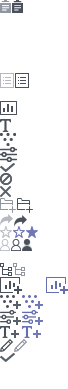
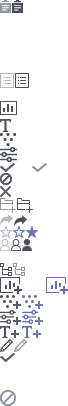
#2961 improve engine monitoring query detail and datasource list

diff --git a/discovery-frontend/src/app/engine-monitoring/datasource/datasource.component.html b/discovery-frontend/src/app/engine-monitoring/datasource/datasource.component.html
@@ -48,51 +48,78 @@
       <col width="150px">
       <col width="150px">
       <col width="150px">
+      <col width="100px">
     </colgroup>
     <thead>
-    <tr>
-      <th>
-        Datasource name
-      </th>
-      <th>
-        Status
-      </th>
-      <th>
-        Time
-      </th>
-      <th>
-        Size
-      </th>
-      <th>
-        Available Segment
-      </th>
-      <th>
-        Num of Rows
-      </th>
-    </tr>
+      <tr>
+        <th>
+          Datasource name
+        </th>
+        <th>
+          Status
+        </th>
+        <th>
+          Time
+        </th>
+        <th>
+          Size
+        </th>
+        <th>
+          Available Segment
+        </th>
+        <th>
+          Num of Rows
+        </th>
+        <th>
+        </th>
+      </tr>
     </thead>
     <tbody>
-    <tr *ngFor="let datasource of datasourceList" [class.ddp-disabled]="datasource.disabled" (click)="onClickDatasource(datasource)">
-      <td>
-        {{datasource.datasource}}
-      </td>
-      <td>
-        <span class="ddp-txt-status type-{{getDatasourceStatus(datasource)}}">{{getDatasourceStatusLabel(datasource)}}</span>
-      </td>
-      <td>
-        {{datasource.disabled ? '' : (datasource.segments.minTime | date : 'yyyy-MM-ddTHH' : 'UTC') + ' ~ ' + (datasource.segments.maxTime | date : 'yyyy-MM-ddTHH' : 'UTC')}}
-      </td>
-      <td>
-        {{datasource.disabled ? '' : getDatasourceSize(datasource)}}
-      </td>
-      <td>
-        {{datasource.disabled ? '' : datasource.num_available_segments | numberCommas}}
-      </td>
-      <td>
-        {{datasource.disabled ? '' : datasource.num_rows | numberCommas}}
-      </td>
-    </tr>
+      <tr *ngFor="let datasource of datasourceList" (click)="onClickDatasource(datasource)">
+        <td>
+          {{datasource.datasource}}
+        </td>
+        <td>
+          <span class="ddp-txt-status type-{{getDatasourceStatus(datasource)}}">{{getDatasourceStatusLabel(datasource)}}</span>
+        </td>
+        <td>
+          {{datasource.disabled ? '' : (datasource.segments.minTime | date : 'yyyy-MM-ddTHH' : 'UTC') + ' ~ ' + (datasource.segments.maxTime | date : 'yyyy-MM-ddTHH' : 'UTC')}}
+        </td>
+        <td>
+          {{datasource.disabled ? '' : getDatasourceSize(datasource)}}
+        </td>
+        <td>
+          {{datasource.disabled ? '' : datasource.num_available_segments | numberCommas}}
+        </td>
+        <td>
+          {{datasource.disabled ? '' : datasource.num_rows | numberCommas}}
+        </td>
+        <td>
+          <a href="javascript:" class="ddp-box-btn-able" (click)="$event.stopPropagation(); onClickConfirmDatasource(datasource, 'disable');" *ngIf="!datasource.disabled">
+            <em class="ddp-icon-disable"></em>
 
+            <!-- tooltip -->
+            <div class="ddp-ui-tooltip-info ddp-top" >
+              <em class="ddp-icon-view-top"></em>
+              Disable
+            </div>
+            <!-- //tooltip -->
+          </a>
+          <a href="javascript:" class="ddp-box-btn-able" (click)="$event.stopPropagation(); onClickConfirmDatasource(datasource, 'enable');" *ngIf="datasource.disabled">
+            <em class="ddp-icon-enable"></em>
+            <!-- tooltip -->
+            <div class="ddp-ui-tooltip-info ddp-top" >
+              <em class="ddp-icon-view-top"></em>
+              Enable
+            </div>
+            <!-- //tooltip -->
+          </a>
+
+          <div class="ddp-btn-control">
+            <em class="ddp-icon-control-cut" (click)="$event.stopPropagation(); onClickConfirmDatasource(datasource, 'delete');"></em>
+          </div>
+        </td>
+      </tr>
     </tbody>
 
   </table>
@@ -101,3 +128,5 @@
   <!-- // Pagination -->
   </ng-template>
 </div>
+
+<app-delete-modal (deleteConfirm)="confirmDatasource($event)"></app-delete-modal>

diff --git a/discovery-frontend/src/app/engine-monitoring/datasource/datasource.component.ts b/discovery-frontend/src/app/engine-monitoring/datasource/datasource.component.ts
@@ -34,6 +34,10 @@ import {CommonUtil} from "../../common/util/common.util";
 import {filter} from "rxjs/operators";
 import {StateService} from "../service/state.service";
 import {Engine} from "../../domain/engine-monitoring/engine";
+import {Alert} from "../../common/util/alert.util";
+import {Datasource} from "../../domain/datasource/datasource";
+import {Modal} from "../../common/domain/modal";
+import {DeleteModalComponent} from "../../common/component/modal/delete/delete.component";
 
 @Component({
   selector: '[datasource]',
@@ -52,6 +56,9 @@ export class DatasourceComponent extends AbstractComponent implements OnInit, On
               private engineService: EngineService) {
     super(elementRef, injector);
   }
+
+  @ViewChild(DeleteModalComponent)
+  private deleteModalComponent: DeleteModalComponent;
 
   @ViewChild(CriterionComponent)
   private readonly criterionComponent: CriterionComponent;
@@ -177,6 +184,38 @@ export class DatasourceComponent extends AbstractComponent implements OnInit, On
     return this.injector.get(EngineService).getCriterionInDatasource(criterionKey);
   }
 
+  public onClickConfirmDatasource(datasource, type): void {
+    const modal = new Modal();
+    if (type === 'enable') {
+      modal.name = this.translateService.instant('msg.engine.monitoring.confirm.ds.enable.title');
+      modal.description = this.translateService.instant('msg.engine.monitoring.confirm.ds.enable.description');
+      modal.btnName = this.translateService.instant('msg.engine.monitoring.btn.ds.enable');
+    } else if (type === 'disable') {
+      modal.name = this.translateService.instant('msg.engine.monitoring.btn.ds.disable');
+      modal.description = this.translateService.instant('msg.engine.monitoring.confirm.ds.list.disable.description');
+      modal.btnName = this.translateService.instant('msg.engine.monitoring.btn.ds.list.disable');
+    } else if (type === 'delete') {
+      modal.name = this.translateService.instant('msg.storage.btn.dsource.del');
+      modal.description = this.translateService.instant('msg.engine.monitoring.confirm.ds.del.description');
+      modal.btnName = this.translateService.instant('msg.engine.monitoring.btn.ds.del');
+    }
+    modal.data = {
+      datasource : datasource.datasource,
+      type: type
+    };
+    this.deleteModalComponent.init(modal);
+  }
+
+  public confirmDatasource(modal: Modal) {
+    if (modal.data.type === 'enable') {
+      this._enableDatasource(modal.data.datasource);
+    } else if (modal.data.type === 'disable') {
+      this._disableDatasource(modal.data.datasource);
+    } else if (modal.data.type === 'delete') {
+      this._permanentlyDeleteDataSource(modal.data.datasource);
+    }
+  }
+
   public highlightSearchText(name, searchText): string {
     if (_.isNil(searchText) || searchText.trim() === '') {
       return name;
@@ -300,6 +339,24 @@ export class DatasourceComponent extends AbstractComponent implements OnInit, On
 
   private _changeTab(contentType: Engine.ContentType) {
     this.router.navigate([ `${Engine.Constant.ROUTE_PREFIX}${contentType}` ]);
+  }
+
+  private _enableDatasource(datasource) {
+    this.engineService.enableDatasource(datasource).then(() => {
+      Alert.success(this.translateService.instant('msg.engine.monitoring.alert.ds.enable.success'));
+    });
+  }
+
+  private _disableDatasource(datasource) {
+    this.engineService.disableDatasource(datasource).then(() => {
+      Alert.success(this.translateService.instant('msg.engine.monitoring.alert.ds.disable.success'));
+    });
+  }
+
+  private _permanentlyDeleteDataSource(datasource) {
+    this.engineService.permanentlyDeleteDataSource(datasource).then(() => {
+      Alert.success(this.translateService.instant('msg.engine.monitoring.alert.ds.del.success'));
+    });
   }
 
 }

diff --git a/discovery-frontend/src/assets/css/metatron/page.css b/discovery-frontend/src/assets/css/metatron/page.css
@@ -9381,7 +9381,15 @@ table.ddp-table-detail3 tr td .ddp-type-status-error .ddp-box-layout4 .ddp-data-
 table.ddp-table-detail3 tr td .ddp-type-status-error .ddp-box-layout4 {display:none; position:absolute; top:100%; left:0; margin-top:5px;width:auto; }
 table.ddp-table-detail3 tr td .ddp-type-status-error .ddp-box-layout4 .ddp-data-det {white-space:nowrap;}
 table.ddp-table-detail3 tr td .ddp-type-status-error:hover .ddp-box-layout4 {display:block;}
-
+table.ddp-table-type3 tbody tr td .ddp-box-btn-able {display:inline-block; position:relative; width:30px; height:30px; border-radius:2px;box-sizing:border-box;}
+table.ddp-table-type3 tbody tr td .ddp-box-btn-able:hover { border:1px solid #ddd; background-color:#f6f6f7; }
+table.ddp-table-type3 tbody tr td .ddp-box-btn-able:hover .ddp-ui-tooltip-info {display:block;}
+table.ddp-table-type3 tbody tr td .ddp-box-btn-able .ddp-ui-tooltip-info {display:none; position:absolute; right:-10px; left:auto;}
+table.ddp-table-type3 tbody tr td .ddp-box-btn-able .ddp-ui-tooltip-info .ddp-icon-view-top {right:25px; margin-left:0; left:auto;}
+table.ddp-table-type3 tbody tr td .ddp-box-btn-able .ddp-icon-enable,
+table.ddp-table-type3 tbody tr td .ddp-box-btn-able .ddp-icon-disable {display:inline-block; position:absolute; top:50%; left:50%; background:url(../../images/icon_buttons.png) no-repeat;}
+table.ddp-table-type3 tbody tr td .ddp-box-btn-able .ddp-icon-enable {width:15px; height:9px; margin:-5px 0 0 -7px; background-position:-32px -163px}
+table.ddp-table-type3 tbody tr td .ddp-box-btn-able .ddp-icon-disable {width:16px; height:16px; margin:-7px 0 0 -8px; background-position:left -390px}
 
 /**************************************************************
   Page : 05_06EngineMonitoring_02Ingestion_01List

diff --git a/discovery-frontend/src/app/engine-monitoring/query/query.component.html b/discovery-frontend/src/app/engine-monitoring/query/query.component.html
@@ -135,20 +135,16 @@
   </div>
 </div>
 
-<div class="ddp-pop-preview ddp-type" *ngIf="showDetail && queryDetail">
-  <!-- top -->
-  <div class="ddp-ui-top">
-    <div class="ddp-data-name">
-      {{ 'msg.comm.menu.manage.engine.monitoring.query' | translate }} {{'msg.comm.ui.info' | translate}}
-    </div>
-    <em class="ddp-btn-popup-close" (click)="closeDetail()"></em>
-  </div>
-  <!-- //top -->
-  <!-- cpmtemts -->
-  <div class="ddp-ui-preview-contents ">
-    <div class="ddp-wrap-informaiton ">
-      <div class="ddp-ui-detail ddp-clear ddp-task-detail ">
-        <table class="ddp-table-detail2 type-vertical-top">
+<div class="ddp-layout-popuptype type-flex" *ngIf="showDetail && queryDetail">
+  <em class="ddp-bg-popup"></em>
+  <div class="ddp-ui-flex-popup">
+    <a href="javascript:" class="ddp-btn-close" (click)="closeDetail()"></a>
+    <div class="ddp-pop-title">{{ 'msg.comm.menu.manage.engine.monitoring.query' | translate }} {{'msg.comm.ui.info' | translate}}</div>
+
+    <!-- contents -->
+    <div class="ddp-pop-contents ">
+
+      <table class="ddp-table-detail2 ">
           <colgroup>
             <col width="200px">
             <col width="*">
@@ -219,10 +215,7 @@
             </td>
           </tr>
           </tbody>
-        </table>
-
-      </div>
+      </table>
     </div>
   </div>
-  <!-- //cpmtemts -->
 </div>

diff --git a/discovery-frontend/src/assets/css/metatron/component/component.icons.css b/discovery-frontend/src/assets/css/metatron/component/component.icons.css
@@ -570,7 +570,9 @@ a.ddp-icon-board-edit:hover:before {background-position:-21px -19px;}
 .ddp-icon-drop-guide,
 .ddp-icon-drop-select,
 .ddp-icon-drop-sort,
-.ddp-icon-drop-unit{display:inline-block; position:absolute; top:50%; left:13px; margin-top:-7px; width:13px; height:12px; background:url(../../../images/icon_drop.png) no-repeat;}
+.ddp-icon-drop-unit,
+.ddp-icon-drop-disabled {display:inline-block; position:absolute; top:50%; left:13px; margin-top:-7px; width:13px; height:12px; background:url(../../../images/icon_drop.png) no-repeat;}
+.ddp-icon-drop-disabled {width:11px; height:11px; margin-top:-6px; background-position:-315px top;}
 .ddp-icon-drop-unit {width:11px; height:11px; background-position:-303px top;}
 .ddp-icon-drop-select {width:12px; height:9px; background-position:-277px top;}
 .ddp-icon-drop-sort {width:12px; height:10px; background-position:-290px top;}
